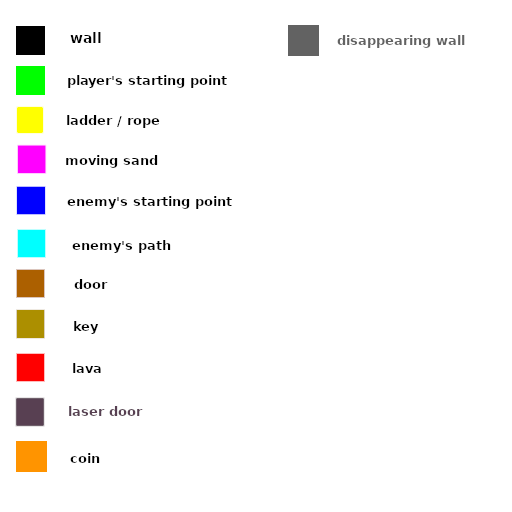
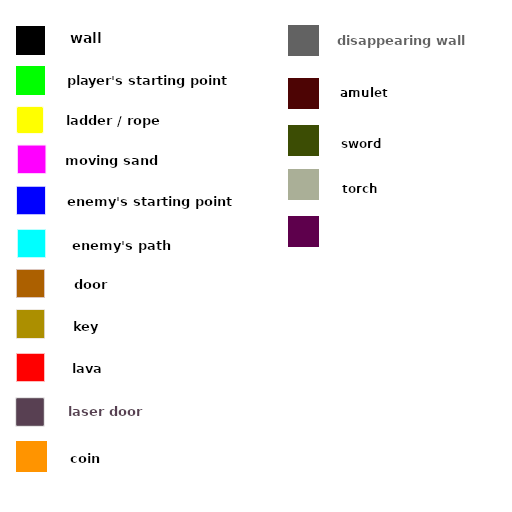
Implement torch logic.

diff --git a/minatar/environments/montezumas_revenge.py b/minatar/environments/montezumas_revenge.py
@@ -16,27 +16,28 @@ class InventoryItem(Enum):
 
 class Env:
     channels = {
-        'treasure_room_background': 0,
-        'wall': 1,
-        'disappearing_wall': 2,
-        'moving_sand': 3,
-        'door': 4,
-        'laser_door': 5,
-        'gauge_background': 6,
-        'gauge_health': 7,
-        'inventory_key': 8,
-        'inventory_sword': 9,
-        'inventory_torch': 10,
-        'inventory_amulet': 11,
-        'lava': 12,
-        'ladder': 13,
-        'player': 14,
-        'enemy': 15,
-        'key': 16,
-        'sword': 17,
-        'torch': 18,
-        'amulet': 19,
-        'coin': 20
+        'darkness': 0,
+        'treasure_room_background': 1,
+        'wall': 2,
+        'disappearing_wall': 3,
+        'moving_sand': 4,
+        'door': 5,
+        'laser_door': 6,
+        'gauge_background': 7,
+        'gauge_health': 8,
+        'inventory_key': 9,
+        'inventory_sword': 10,
+        'inventory_torch': 11,
+        'inventory_amulet': 12,
+        'lava': 13,
+        'ladder': 14,
+        'player': 15,
+        'enemy': 16,
+        'key': 17,
+        'sword': 18,
+        'torch': 19,
+        'amulet': 20,
+        'coin': 21,
     }
     # TODO: evacuate to a class handling HUD drawing
     _inventory_item_to_gauge_channel = {
@@ -79,7 +80,6 @@ class Env:
         self.game_state = GameState.in_maze
         self.maze.reset()
         self.player.soft_reset(Env.cell_to_position(self.maze.soft_reset_cell))
-        self.trigger_screen_state_redraw()
 
     # Called after player loses one hearth.
     def _soft_reset(self):
@@ -107,6 +107,7 @@ class Env:
             back_to_maze = self.treasure_room.update(self.player, action)
             if back_to_maze:
                 self._reset_to_starting_point()
+                self.trigger_screen_state_redraw()
         else:
             assert False
         self._update_screen_state(self.screen_state)
@@ -132,7 +133,7 @@ class Env:
             # Initialize status bar.
             screen_state[0, :, Env.channels['gauge_background']] = True
             # Let the maze initialize the rest.
-            self.maze.initialize_screen_state(screen_state)
+            self.maze.initialize_screen_state(screen_state, self.player.has_torch())
         elif self.game_state == GameState.in_treasure_room:
             self.treasure_room.initialize_screen_state(screen_state)
         else:
@@ -155,7 +156,7 @@ class Env:
 
             state[player_cell[0] + 1, player_cell[1], Env.channels['player']] = True
 
-            self.maze.update_screen_state(state)
+            self.maze.update_screen_state(state, self.player.has_torch())
         elif self.game_state == GameState.in_treasure_room:
             state[player_cell[0], player_cell[1], Env.channels['player']] = True
             self.treasure_room.update_screen_state(state)
@@ -216,15 +217,20 @@ class Maze:
         assert self.room.player_start is not None, 'Initial room does not specify initial player position.'
         self.soft_reset_cell = self.room.player_start
 
-    def initialize_screen_state(self, screen_state):
+    def initialize_screen_state(self, screen_state, has_torch):
         for y in range(Room.room_size[1]):
             for x in range(Room.room_size[0]):
-                tile = self.room.room_data[y][x]
-                if tile in _tile_to_channel:
-                    screen_state[y + 1, x, Env.channels[_tile_to_channel[tile]]] = True
+                if self.room.is_dark and not has_torch:
+                    channel = 'darkness'
+                else:
+                    tile = self.room.room_data[y][x]
+                    if tile not in _tile_to_channel:
+                        continue
+                    channel = _tile_to_channel[tile]
+                screen_state[y + 1, x, Env.channels[channel]] = True
 
-    def update_screen_state(self, screen_state):
-        self.room.update_screen_state(screen_state)
+    def update_screen_state(self, screen_state, has_torch):
+        self.room.update_screen_state(screen_state, has_torch)
 
     def update(self, player, action):
         player.update_inside_maze(action, self)
@@ -347,10 +353,11 @@ class Room:
     room_size = (20, 19)  # (width, height)
     neighbours_names = ['left_neighbour', 'top_neighbour', 'right_neighbour', 'bottom_neighbour']
 
-    def __init__(self, room_name, room_data, neighbours):
+    def __init__(self, room_name, room_data, neighbours, is_dark):
         self.room_name = room_name
         self.room_data = room_data
         self.neighbours = neighbours
+        self.is_dark = is_dark
         player_starts = [(y, x)
                          for y in range(Room.room_size[1])
                          for x in range(Room.room_size[0])
@@ -431,7 +438,7 @@ class Room:
             o.draw(moving_data)
         self.moving_data = moving_data
 
-    def update_screen_state(self, state):
+    def update_screen_state(self, state, has_torch):
         Enemy.reset_state(state)
         Door.reset_state(state)
         CollectableItem.reset_state(state)
@@ -440,7 +447,8 @@ class Room:
         Coin.reset_state(state)
 
         for o in self.scriptable_objects:
-            o.add_to_state(state)
+            if not self.is_dark or has_torch or o.visible_in_dark:
+                o.add_to_state(state)
 
     def reset(self):
         for o in self.scriptable_objects:
@@ -475,6 +483,7 @@ class Door:
         self.top_position = top_position
         self.height = height
         self.open = False
+        self.visible_in_dark = False
 
     @staticmethod
     def reset_state(state):
@@ -508,6 +517,7 @@ class CollectableItem:
         self.position = position
         self.collected = False
         self.item_type = item_type
+        self.visible_in_dark = False
 
     @staticmethod
     def reset_state(state):
@@ -533,6 +543,7 @@ class Coin:
     def __init__(self, position, room):
         self.position = position
         self.collected = False
+        self.visible_in_dark = False
 
     @staticmethod
     def reset_state(state):
@@ -566,6 +577,7 @@ class LaserDoor:
         self.height = height
         self.open = False
         self.ticks_since_switched = 0
+        self.visible_in_dark = False
 
     @staticmethod
     def reset_state(state):
@@ -608,6 +620,7 @@ class DisappearingWall:
         self.position = position
         self.present = False
         self.ticks_since_switched = 0
+        self.visible_in_dark = True
 
     @staticmethod
     def reset_state(state):
@@ -655,7 +668,8 @@ class Player:
     def reset(self, position):
         self.soft_reset(position)
         self.health = Player._max_hearths
-        self.inventory = []
+        #self.inventory = []
+        self.inventory = [InventoryItem.key] * 3  # TODO
         self.score = 0
         self.amulet_active = False
         self.ticks_since_amulet_activated = 0  # only meaningful if self.amulet_active == True
@@ -670,6 +684,9 @@ class Player:
 
     def is_inventory_full(self):
         return len(self.inventory) == Player._inventory_size
+
+    def has_torch(self):
+        return InventoryItem.torch in self.inventory
 
     def collect(self, item):
         if item == InventoryItem.amulet:
@@ -894,6 +911,7 @@ class Enemy:
         # For documentation purposes, overridden in reset().
         self.enemy_cell, self.ticks_since_move, self.previous_cell = None, None, None
         self.reset()
+        self.visible_in_dark = True
 
     @staticmethod
     def reset_state(state):
@@ -965,7 +983,8 @@ class RoomCache:
             room_data = RoomCache._load_room_data(_get_file_location(data['data_file']))
             neighbours = {neighbour: data[neighbour] for neighbour in Room.neighbours_names if
                           neighbour in data}
-            return Room(room_name, room_data, neighbours)
+            is_dark = False if 'is_dark' not in data else data['is_dark']
+            return Room(room_name, room_data, neighbours, is_dark)
 
     @staticmethod
     def _load_room_data(data_file):
